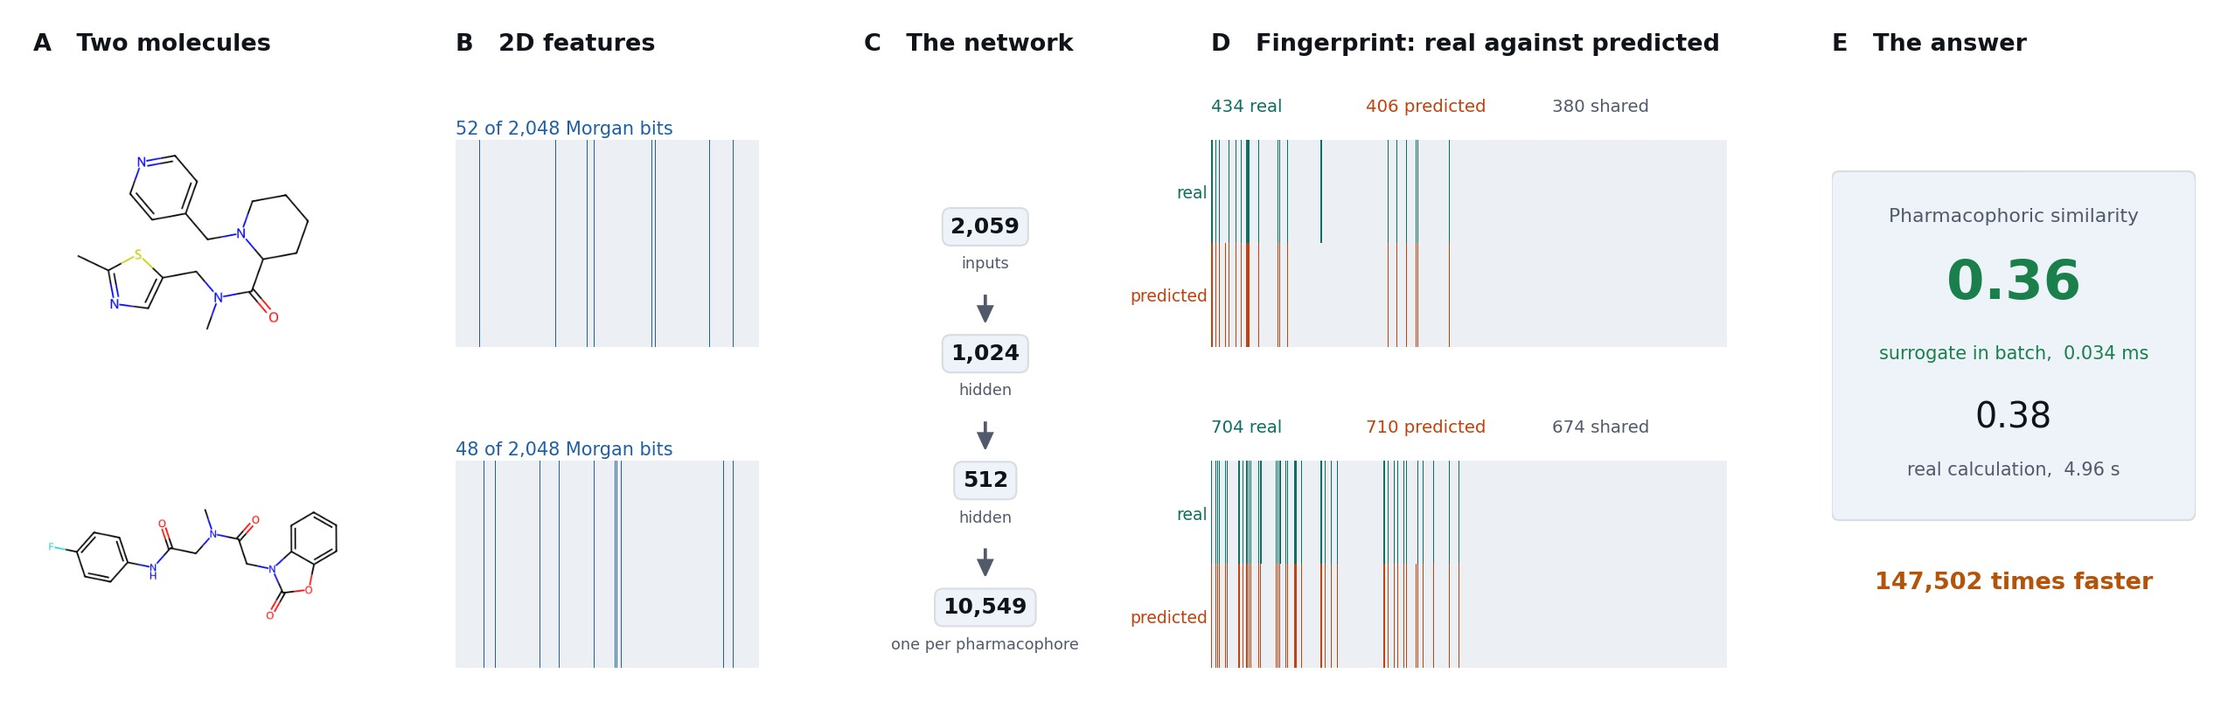
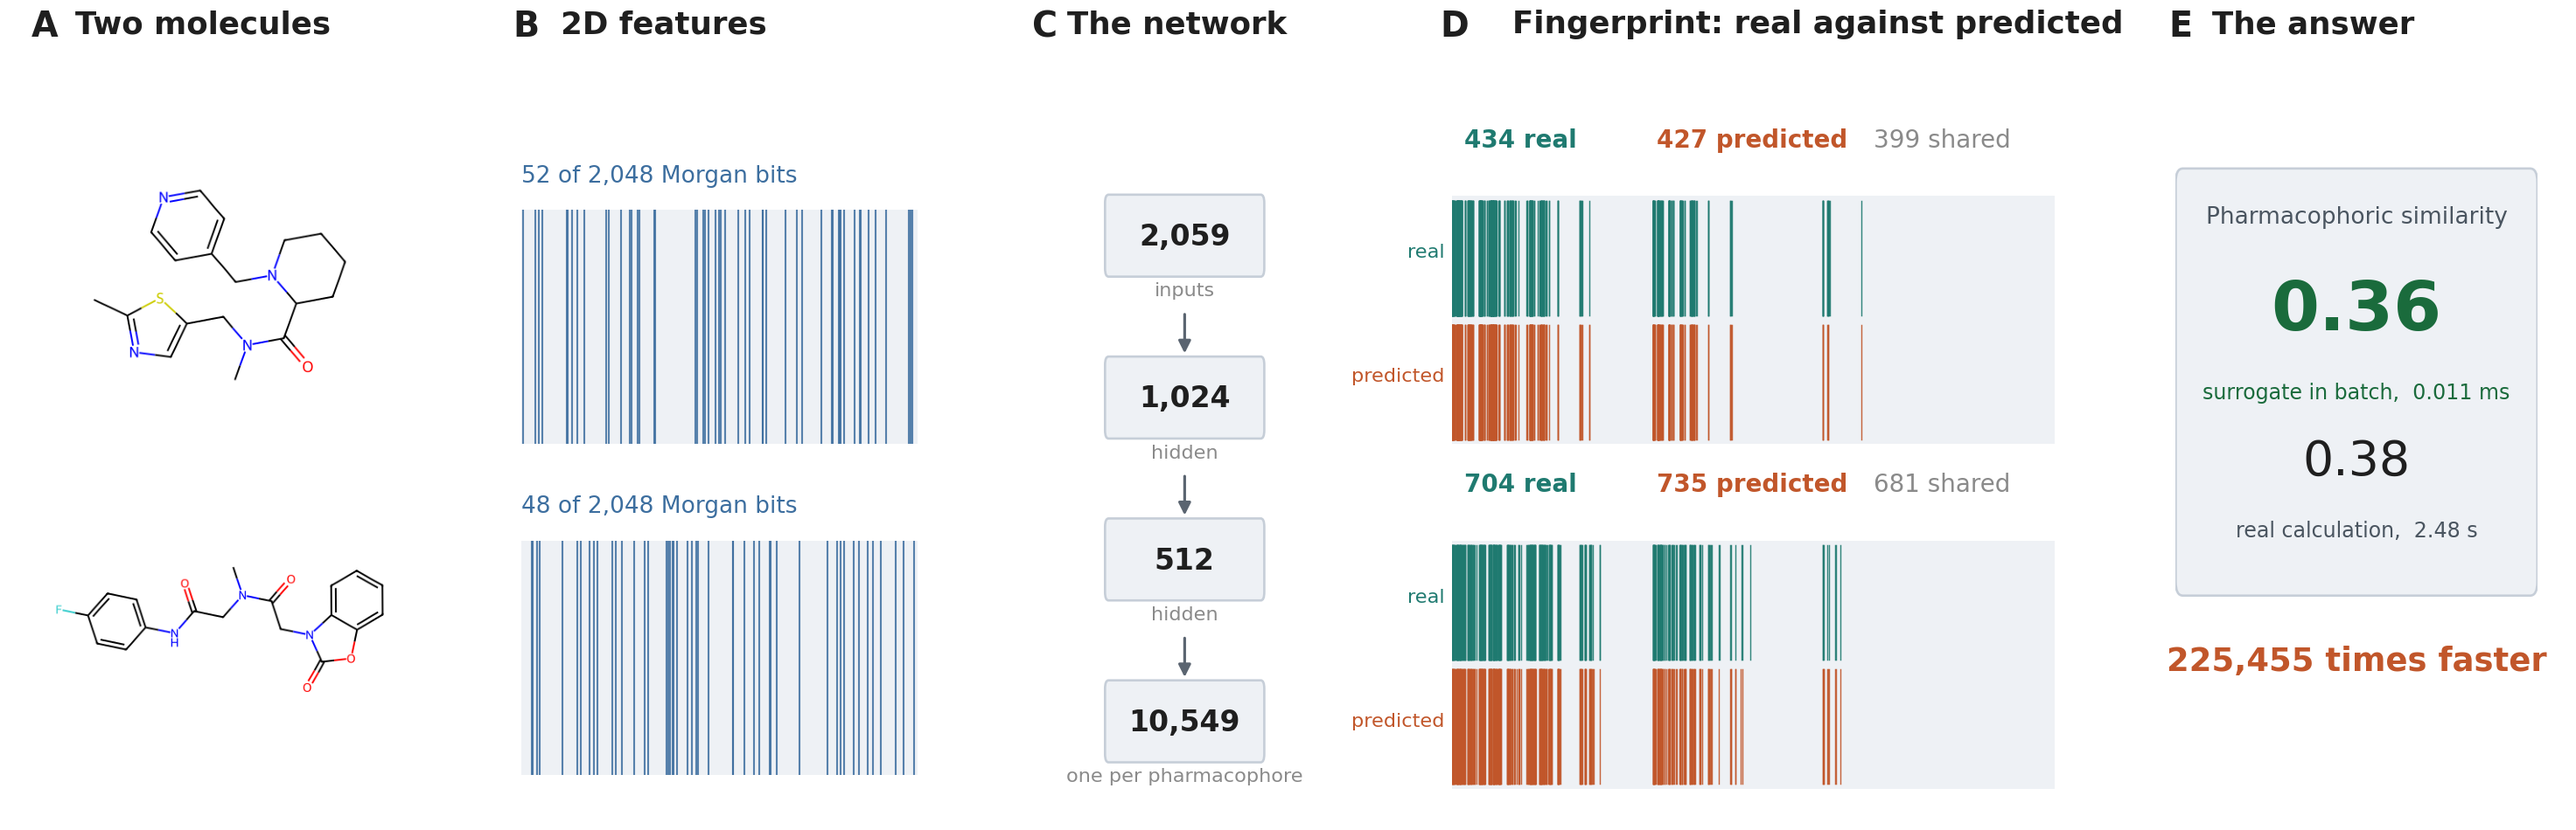
Figure 1 corrected upstream, and the timings moved with it
The preprint regenerated Figure 1: it now reads 10,549 bits in total, so it is
restored to the README and the site rather than left withdrawn.

Re-checking every figure in the same pass caught a second change. Figure 5 was
rebuilt too, and its timings moved: 0.011 ms batched against 2.48 s for the
conventional route, 225,455 times faster, where the figure previously showed
0.034 ms against 4.96 s. The headline claim and the stat tile carried the old
pair and are corrected.

30 tests.

diff --git a/README.md b/README.md
@@ -15,7 +15,7 @@ only 0.043 s is the fingerprint itself.
 PharmCast reads a SMILES and predicts all 10,549 pharmacophores directly. It removes the
 conformational stage rather than accelerating it, which is why the speed-up is
 of a different order to what optimisation normally buys: **a complete comparison
-of two molecules, from structure alone, takes 0.034 ms against 5.0 s.**
+of two molecules, from structure alone, takes 0.011 ms against 2.48 s.**
 
 ---
 
@@ -26,9 +26,11 @@ measured distances. Enumerate every combination of feature type and distance
 range and you have a fixed vocabulary of triangles; each one is a bit, and a
 molecule sets the bit for every triangle it can form.
 
-*A figure for this section is being regenerated. The one previously here still
-rendered the packed word count as if it were the fingerprint width, so it has
-been withdrawn rather than republished.*
+![A three point pharmacophore: three typed features p1, p2, p3 joined by three measured distances, beside the seven feature types and six distance bins that enumerate 10,549 pharmacophores](assets/pharmacophore-bit.jpg)
+
+*What one bit is. A three point pharmacophore is three typed features and the
+three binned distances between them. Enumerating every triangle that satisfies
+the triangle inequality on the bin bounds gives 10,549 distinct pharmacophores.*
 
 Because the vocabulary is geometric rather than substructural, two molecules
 with nothing in common on paper score highly if they present their features in
@@ -54,7 +56,8 @@ entirely. Panel E is one real catalogue pair scored by PharmCast SCP v6: the
 reference calculation gives a pharmacophore Tanimoto of 0.383 and PharmCast
 predicts 0.364, against a two dimensional Morgan Tanimoto of 0.149. The network
 is 2,059 inputs, hidden layers of 1,024 and 512, and one output unit per
-pharmacophore, 10,549 in total, for 8,045,877 parameters.*
+pharmacophore, 10,549 in total, for 8,045,877 parameters. Batched, that is
+0.011 ms against 2.48 s, 225,455 times faster.*
 
 ---
 
